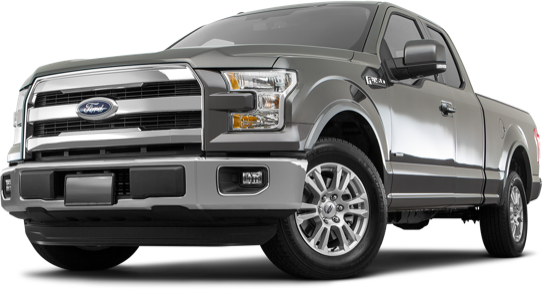
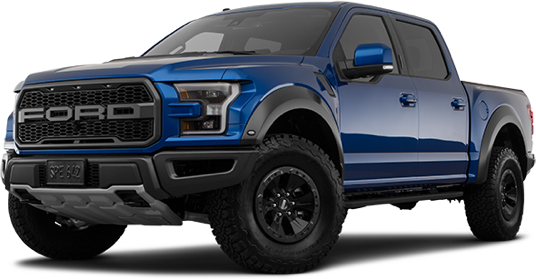
Added hero for how it works

diff --git a/apps/marketing/src/modules/how-it-works/components/Hero/View.tsx b/apps/marketing/src/modules/how-it-works/components/Hero/View.tsx
@@ -1,0 +1,128 @@
+import { styled } from '@material-ui/core/styles';
+import { Button, Typography } from '@vroom-web/ui';
+import React from 'react';
+
+import ViewModel from './ViewModel';
+
+const Container = styled('div')(({ theme }) => ({
+  background: `linear-gradient(100deg, ${theme.palette.background.default} 71.9%, ${theme.palette.primary.main} 72%)`,
+  [theme.breakpoints.only('xs')]: {
+    background: `linear-gradient(170deg, ${theme.palette.background.default} 71.9%, ${theme.palette.primary.main} 72%)`,
+  },
+}));
+
+const ContainerContent = styled('div')(({ theme }) => ({
+  width: '100%',
+  maxWidth: '1280px',
+  marginLeft: 'auto',
+  marginRight: 'auto',
+  display: 'flex',
+  justifyContent: 'space-between',
+  alignItems: 'center',
+  padding: theme.spacing(10, 6),
+  [theme.breakpoints.down('sm')]: {
+    padding: theme.spacing(4, 3),
+  },
+  [theme.breakpoints.only('xs')]: {
+    textAlign: 'center',
+    flexDirection: 'column',
+    justifyContent: 'center',
+  },
+}));
+
+const TextWrapper = styled('div')(() => ({
+  flexBasis: '60%',
+}));
+
+const ImageWrapper = styled('div')(() => ({
+  flexBasis: '40%',
+}));
+
+const TagLine = styled(Typography)(({ theme }) => ({
+  fontWeight: 600,
+  textTransform: 'uppercase',
+  fontSize: '18px',
+  lineHeight: '16px',
+  letterSpacing: '1px',
+  marginBottom: theme.spacing(3),
+  [theme.breakpoints.only('sm')]: {
+    marginBottom: theme.spacing(2),
+  },
+  [theme.breakpoints.only('xs')]: {
+    marginBottom: theme.spacing(1),
+  },
+  [theme.breakpoints.down('sm')]: {
+    fontSize: '16px',
+  },
+}));
+
+const Title = styled(Typography)(({ theme }) => ({
+  whiteSpace: 'pre-line',
+  fontSize: '62px',
+  lineHeight: '66px',
+  textTransform: 'uppercase',
+  marginBottom: theme.spacing(2),
+  [theme.breakpoints.only('sm')]: {
+    fontSize: '42px',
+    lineHeight: '42px',
+  },
+  [theme.breakpoints.only('xs')]: {
+    fontSize: '36px',
+    lineHeight: '36px',
+  },
+}));
+
+const SubTitle = styled(Typography)(({ theme }) => ({
+  whiteSpace: 'pre-line',
+  fontSize: '24px',
+  lineHeight: '30px',
+  [theme.breakpoints.down('sm')]: {
+    fontSize: '18px',
+    lineHeight: '25px',
+  },
+}));
+
+const ShopNowButton = styled(Button)(({ theme }) => ({
+  marginTop: theme.spacing(4),
+  [theme.breakpoints.only('xs')]: {
+    marginBottom: theme.spacing(2),
+    display: 'none',
+  },
+}));
+
+const HeroImg = styled('img')(({ theme }) => ({
+  width: '100%',
+  [theme.breakpoints.only('xs')]: {
+    width: '150px',
+  },
+}));
+
+interface Props {
+  viewModel: ViewModel;
+}
+
+const HeroView: React.FC<Props> = ({ viewModel }) => {
+  return (
+    <Container>
+      <ContainerContent>
+        <TextWrapper>
+          <TagLine>{viewModel.tagline}</TagLine>
+          <Title variant="h1">{viewModel.title}</Title>
+          <SubTitle>{viewModel.subtitle} </SubTitle>
+          <ShopNowButton
+            variant="contained"
+            color="primary"
+            href={viewModel.carsLink}
+          >
+            {viewModel.buttonLabel}
+          </ShopNowButton>
+        </TextWrapper>
+        <ImageWrapper>
+          <HeroImg alt={viewModel.car.alt} src={viewModel.car.src} />
+        </ImageWrapper>
+      </ContainerContent>
+    </Container>
+  );
+};
+
+export default HeroView;

diff --git a/apps/marketing/src/modules/how-it-works/components/Hero/ViewModel.tsx b/apps/marketing/src/modules/how-it-works/components/Hero/ViewModel.tsx
@@ -1,0 +1,19 @@
+import getConfig from 'next/config';
+
+const { publicRuntimeConfig } = getConfig();
+
+class HeroViewModel {
+  readonly tagline = 'HOW IT WORKS';
+  readonly title = `Buying and Selling
+  made easy`;
+  readonly subtitle = `You’ve found it: The better way to buy or sell a\xa0car.
+    Find\xa0a great car and make\xa0it yours or sell\xa0us the one you have, all\xa0without a trip to the\xa0dealership. But\xa0how,\xa0exactly? Here’s\xa0how.`;
+  readonly buttonLabel = 'Shop Now';
+  readonly carsLink = '/cars';
+  car = {
+    src: `${publicRuntimeConfig.BASE_PATH}/modules/vroom/images/how-it-works-car.png`,
+    alt: 'How it works car',
+  };
+}
+
+export default HeroViewModel;

diff --git a/apps/marketing/src/modules/how-it-works/index.tsx b/apps/marketing/src/modules/how-it-works/index.tsx
@@ -4,6 +4,7 @@ import getConfig from 'next/config';
 import React from 'react';
 
 import CustomerReviews from './components/CustomerReviews';
+import Hero from './components/Hero';
 
 const { publicRuntimeConfig } = getConfig();
 
@@ -13,8 +14,11 @@ const HowItWorks: React.FC = () => {
   return (
     <>
       <SimpleHeader gearboxPrivateUrl={gearboxPrivateUrl} />
-      {/* <Process />
-      <InventoryCta />*/}
+      <Hero />
+      {/* 
+      <Process />
+      <InventoryCta />
+      */}
       <CustomerReviews />
       <StandardFooter />
     </>

diff --git a/apps/marketing/src/modules/how-it-works/components/Hero/index.tsx b/apps/marketing/src/modules/how-it-works/components/Hero/index.tsx
@@ -1,0 +1,11 @@
+import React from 'react';
+
+import View from './View';
+import ViewModel from './ViewModel';
+
+const Hero: React.FC = () => {
+  const viewModel = new ViewModel();
+  return <View viewModel={viewModel} />;
+};
+
+export default Hero;
